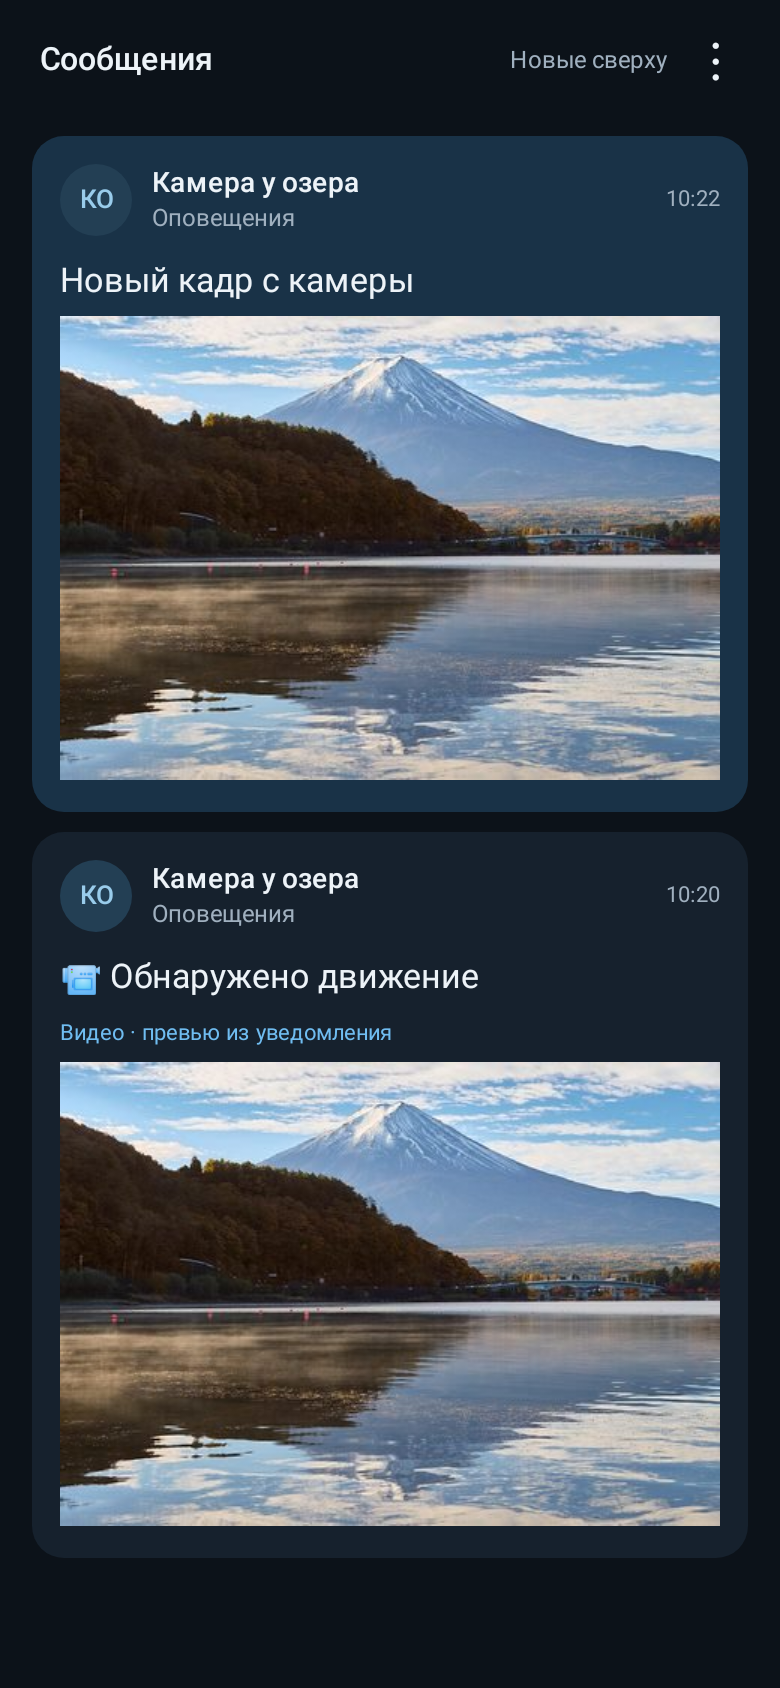
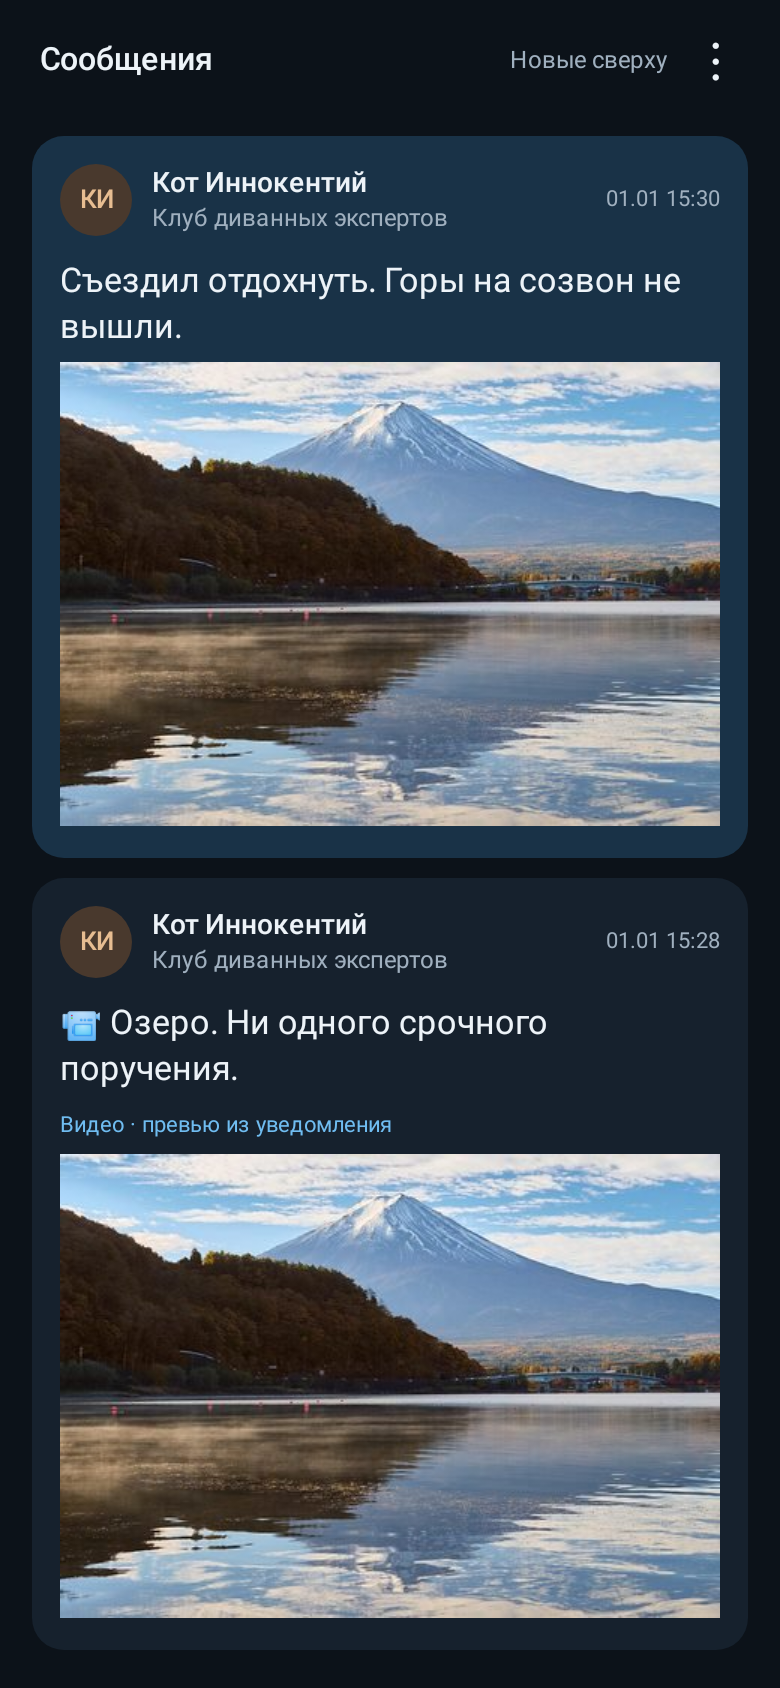
Clarify VPN and Telegram login requirements and refresh demo conversations

diff --git a/app/src/test/java/ru/telegramwall/app/DesignScreenshotTest.java b/app/src/test/java/ru/telegramwall/app/DesignScreenshotTest.java
@@ -35,6 +35,8 @@ import java.util.List;
 @Config(sdk = 33, qualifiers = "w390dp-h844dp-port-mdpi")
 @GraphicsMode(GraphicsMode.Mode.NATIVE)
 public class DesignScreenshotTest {
+    // Public screenshots use fictional conversations, never data captured from a phone.
+    private static final long DEMO_TIME = java.time.Instant.parse("2026-01-01T12:30:00Z").toEpochMilli();
     private Context context;
 
     @Before public void reset() {
@@ -48,7 +50,7 @@ public class DesignScreenshotTest {
         fixture();
         try (ActivityController<MainActivity> controller = Robolectric.buildActivity(MainActivity.class).setup()) {
             capture(controller.get(), "portrait", 390, 844);
-            assertNotNull(findText(content(controller.get()), "Анна Смирнова"));
+            assertNotNull(findText(content(controller.get()), "Оля"));
             assertNotNull(findText(content(controller.get()), "Сообщения"));
             assertNotNull(findText(content(controller.get()), "Новые сверху"));
             assertNull(findText(content(controller.get()), "Telegram подключён"));
@@ -87,8 +89,8 @@ public class DesignScreenshotTest {
             capture(controller.get(), "landscape", 844, 390);
             GridView grid = TestUi.grid(controller.get());
             assertEquals(1, grid.getNumColumns());
-            assertEquals("Анна Смирнова", ((FeedItem) grid.getAdapter().getItem(0)).sender);
-            assertEquals("Михаил", ((FeedItem) grid.getAdapter().getItem(1)).sender);
+            assertEquals("Оля", ((FeedItem) grid.getAdapter().getItem(0)).sender);
+            assertEquals("Паша", ((FeedItem) grid.getAdapter().getItem(1)).sender);
             View header = ((ViewGroup) content(controller.get())).getChildAt(2);
             assertTrue("Feed must start below the toolbar", grid.getTop() >= header.getBottom());
         }
@@ -194,8 +196,8 @@ public class DesignScreenshotTest {
         fixture();
         FeedStore.clear(context);
         List<FeedItem> items = new ArrayList<>();
-        items.add(new FeedItem("video-not-provided", "Система наблюдения", "Оповещения", "📹 Видеозапись события",
-                System.currentTimeMillis(), "video", "", "unavailable"));
+        items.add(new FeedItem("video-not-provided", "Бот дедлайнов", "Релиз без паники", "📹 Запись продуктивного созвона. Улик не осталось.",
+                DEMO_TIME, "video", "", "unavailable"));
         FeedStore.add(context, items);
         try (ActivityController<MainActivity> controller = Robolectric.buildActivity(MainActivity.class).setup()) {
             capture(controller.get(), "dark-video-unavailable", 390, 844);
@@ -212,11 +214,11 @@ public class DesignScreenshotTest {
         }
         String file = MediaCache.copy(context, "sample-notification-photo", null, "image/jpeg", picture);
         picture.recycle();
-        long now = System.currentTimeMillis();
+        long now = DEMO_TIME;
         List<FeedItem> items = new ArrayList<>();
-        items.add(new FeedItem("photo-preview", "Камера у озера", "Оповещения", "Новый кадр с камеры", now,
+        items.add(new FeedItem("photo-preview", "Кот Иннокентий", "Клуб диванных экспертов", "Съездил отдохнуть. Горы на созвон не вышли.", now,
                 "image", file, "ready"));
-        items.add(new FeedItem("video-preview", "Камера у озера", "Оповещения", "📹 Обнаружено движение", now - 120000,
+        items.add(new FeedItem("video-preview", "Кот Иннокентий", "Клуб диванных экспертов", "📹 Озеро. Ни одного срочного поручения.", now - 120000,
                 "video", file, "ready"));
         FeedStore.add(context, items);
     }
@@ -224,14 +226,14 @@ public class DesignScreenshotTest {
     private void fixture() {
         Settings.Secure.putString(context.getContentResolver(), "enabled_notification_listeners",
                 new ComponentName(context, TelegramNotificationListener.class).flattenToShortString());
-        long now = System.currentTimeMillis();
+        long now = DEMO_TIME;
         String[][] messages = {
-                {"Анна Смирнова", "Команда проекта", "Новый макет готов. Посмотрите, как теперь выглядит главная 👀"},
-                {"Михаил", "Дизайн и продукт", "Давайте оставим больше воздуха. Самое важное — сами сообщения."},
-                {"Екатерина", "Встреча в субботу", "Встречаемся в 12:30. Я забронировала столик у окна."},
-                {"Алексей Петров", "Команда проекта", "Сборка прошла. Можно проверять на телефоне."},
-                {"Мария", "Книжный клуб", "Дочитала. Очень хочется обсудить последнюю главу."},
-                {"Иван", "Telegram", "Спасибо! Всё получилось."}
+                {"Оля", "Релиз без паники", "Пуши приходят сами. Хоть кто-то в проекте работает."},
+                {"Паша", "Релиз без паники", "Всё настроил. Теперь героически смотрю на экран."},
+                {"Нина", "Созвон о созвоне", "Отменила созвон. Команда впервые успела поработать."},
+                {"Борис", "Созвон о созвоне", "Нужен созвон. Обсудим, почему не успеваем."},
+                {"Мама", "Семейный техсовет", "Перезагрузила. Роутер ожил, я пока нет."},
+                {"Костя", "Семейный техсовет", "Мам, перезагрузи роутер. Ему тоже нужен отпуск."}
         };
         List<FeedItem> items = new ArrayList<>();
         for (int i = 0; i < messages.length; i++) {

diff --git a/docs/SCREENSHOTS.md b/docs/SCREENSHOTS.md
@@ -4,7 +4,7 @@
 
 | Файл | Метод в `DesignScreenshotTest` | Данные |
 | --- | --- | --- |
-| `images/feed-portrait.png` | `capturesPortraitFeed` | Шесть вымышленных отправителей и сообщений |
+| `images/feed-portrait.png` | `capturesPortraitFeed` | Шесть вымышленных сообщений: релиз, созвоны и семейный техсовет |
 | `images/feed-landscape.png` | `capturesLandscapeFeedInChronologicalSingleColumn` | Те же вымышленные сообщения, одна колонка |
 | `images/media-portrait.png` | `capturesPhotoAndVideoPreviewInDarkPanel` | Вымышленное оповещение и публичная фотография CC0 |
 | `images/video-unavailable.png` | `capturesVideoWithoutPreview` | Искусственное уведомление без видеопревью |
@@ -17,7 +17,7 @@
 
 Результаты создаются в `outputs/screenshots/`. Для публикации используются только четыре указанных файла: `portrait.png`, `landscape.png`, `dark-media-portrait.png` и `dark-video-unavailable.png`, скопированные в `docs/images/` под именами из таблицы.
 
-Имена, тексты и названия чатов задаются тестовыми фикстурами; время берётся из часов тестовой среды. Тесты работают с изолированным хранилищем Robolectric и не подключаются к телефону или аккаунту Telegram. Демонстрационные данные и тестовые медиа не включаются в APK.
+Имена, саркастичные диалоги и названия чатов написаны специально для демонстрации. Время публичных снимков зафиксировано в тестовой фикстуре. Тесты работают с изолированным хранилищем Robolectric и не подключаются к телефону или аккаунту Telegram. Демонстрационные данные и тестовые медиа не включаются в APK.
 
 Фотография озера и горы Фудзи — работа lumoplank под CC0, полученная через тестовые материалы Stageshow. [Источник и сведения о лицензии](../THIRD_PARTY_NOTICES.md).
 

diff --git a/README.md b/README.md
@@ -16,9 +16,21 @@
 | Сетевое разрешение приложения | Отсутствует |
 | История | Последние 100 карточек на устройстве |
 
+## VPN и вход в Telegram
+
+**В саму TGWall входить не нужно. На этом же телефоне должен быть установлен Telegram с уже выполненным входом.** Подойдут также поддерживаемые Telegram Beta или Telegram X.
+
+Для работы нужны три вещи:
+
+1. Авторизованный клиент Telegram на телефоне-панели.
+2. Включённые уведомления Telegram с показом текста сообщений.
+3. Доступ TGWall к уведомлениям Android.
+
+**Без VPN сообщения отображаются, если Telegram получает push с их содержимым и публикует уведомления Android.** В такой ситуации открывать сам Telegram для каждого сообщения не требуется. TGWall не требует собственного VPN, но не обеспечивает доставку сообщений вместо Telegram: если уведомление не дошло до Android, панель самостоятельно его получить не сможет.
+
 ## Как выглядит
 
-**Все имена, чаты и сообщения на скриншотах вымышлены.** Снимки получены из настоящих Android View на тестовых данных. Личная переписка и снимки с пользовательских телефонов не использовались. [Как воспроизвести снимки](docs/SCREENSHOTS.md).
+**Все имена, чаты и сообщения на скриншотах вымышлены.** Сарказм тестовый, рабочие созвоны тоже. Снимки получены из настоящих Android View на тестовых данных. Личная переписка и снимки с пользовательских телефонов не использовались. [Как воспроизвести снимки](docs/SCREENSHOTS.md).
 
 <p>
   <img src="docs/images/feed-portrait.png" width="320" alt="Портретная лента TGWall с вымышленными сообщениями">

diff --git a/PRIVACY.md b/PRIVACY.md
@@ -2,6 +2,8 @@
 
 TGWall показывает содержимое системных уведомлений Telegram на устройстве пользователя. Для работы не нужен отдельный аккаунт TGWall.
 
+При этом на том же телефоне должен быть установлен поддерживаемый клиент Telegram с выполненным входом. TGWall не запрашивает номер телефона, код входа или пароль Telegram. Панель может работать без VPN телефона, если Telegram продолжает получать push с содержимым и публикует уведомления Android; она не создаёт собственное подключение к Telegram для получения недостающих сообщений.
+
 ## Какие данные обрабатываются
 
 - Текст сообщения, отображаемое имя отправителя, название чата и время, если они присутствуют в уведомлении.
